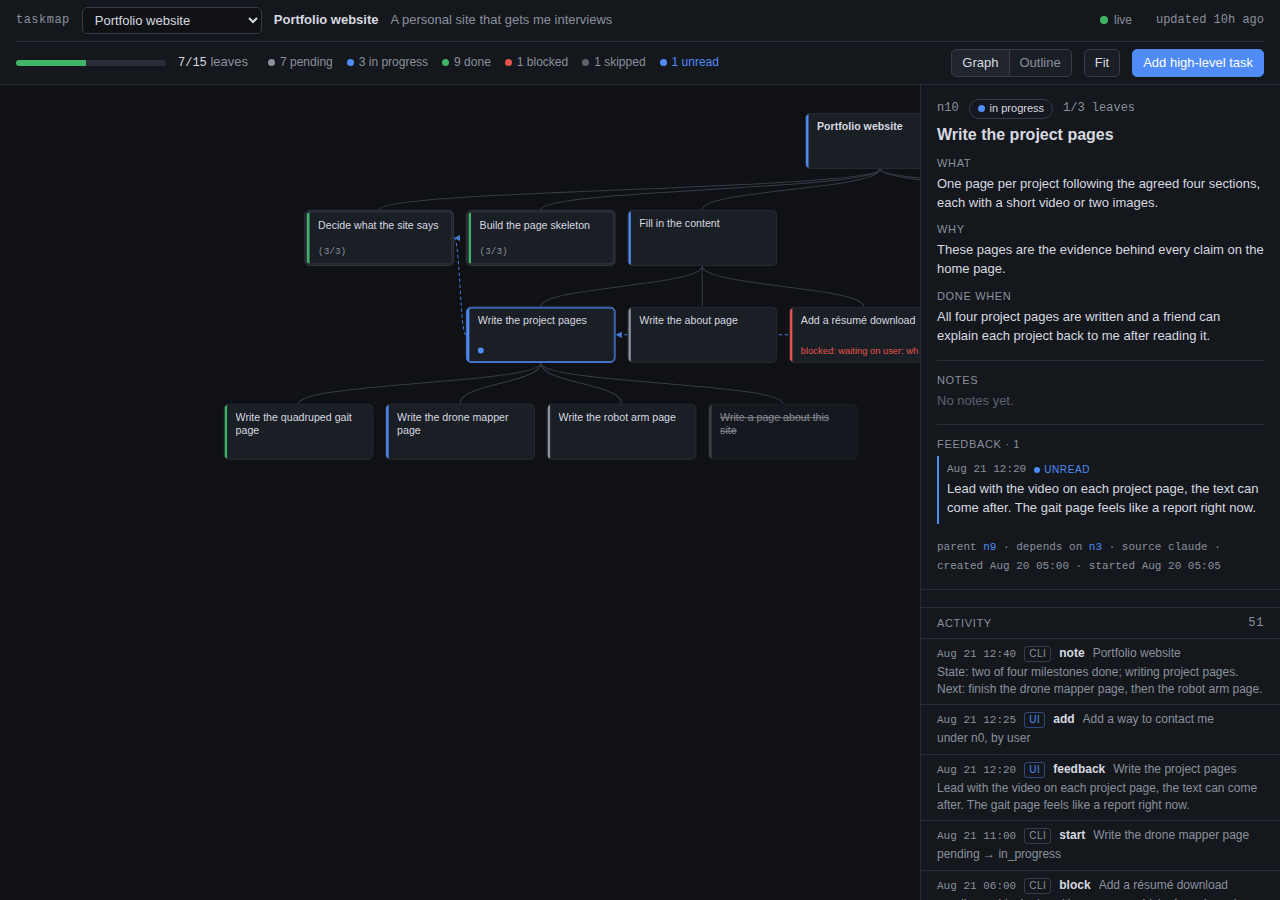
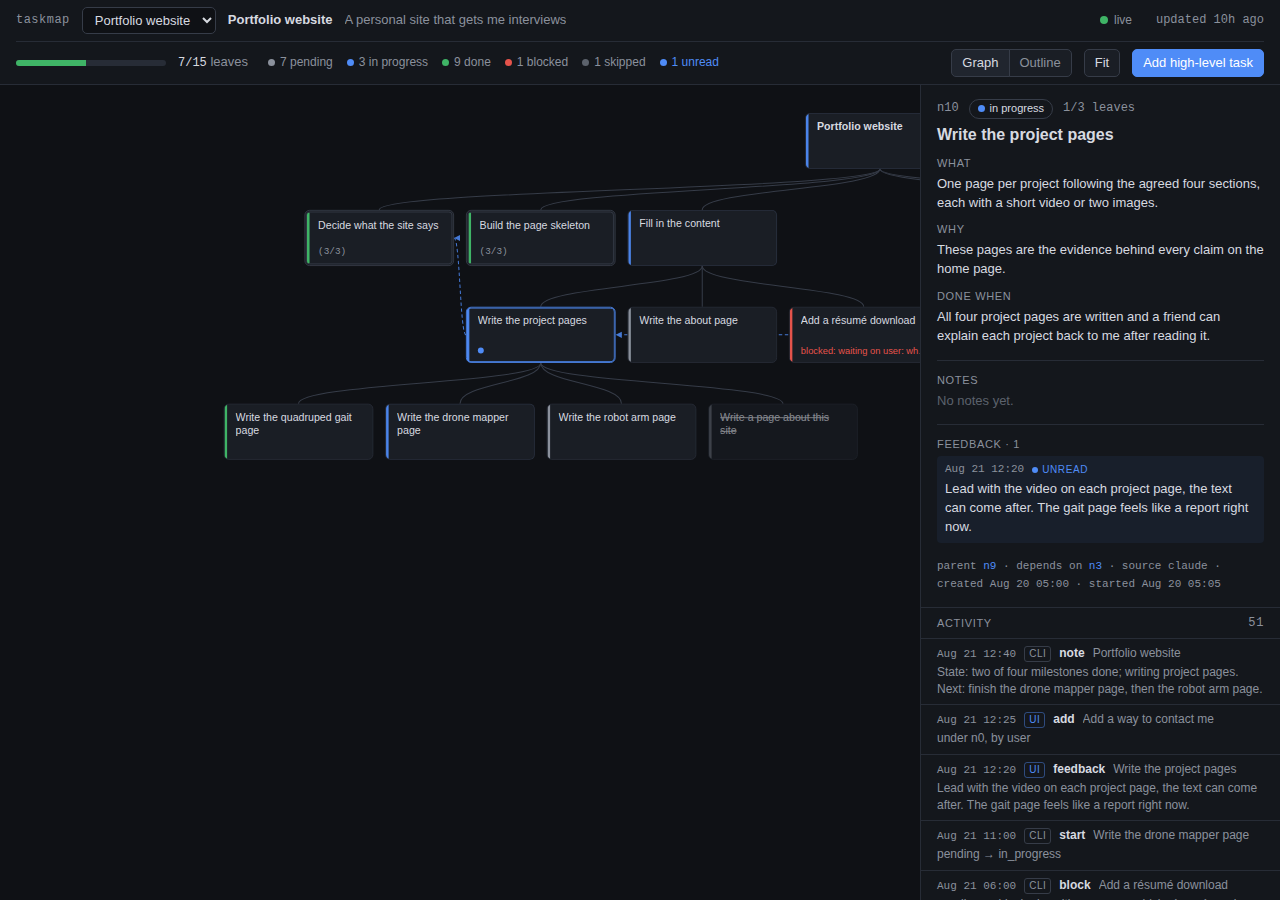
ui: progress bar via transform, quieter reason box and unread entries

Changed region(s): [[0.7188, 0.4978, 0.9688, 0.6533], [0.1562, 0.0, 0.4688, 0.0311]]

diff --git a/ui/style.css b/ui/style.css
@@ -97,7 +97,7 @@ input::placeholder, textarea::placeholder { color: var(--dim); }
 .live.off .dot { background: var(--red); }
 #updated { white-space: nowrap; min-width: 120px; text-align: right; }
 .progress { width: 150px; height: 6px; border-radius: 3px; background: var(--border); overflow: hidden; }
-#progress-bar { height: 100%; width: 0; background: var(--green); transition: width 0.3s ease; }
+#progress-bar { height: 100%; width: 100%; background: var(--green); transform: scaleX(0); transform-origin: left center; transition: transform 0.3s ease; }
 .plabel { color: var(--muted); white-space: nowrap; }
 .plabel .mono { color: var(--text); }
 .counts { display: inline-flex; gap: 14px; margin-left: 8px; }
@@ -214,8 +214,8 @@ foreignObject.node { overflow: visible; }
 .pill.st-blocked i { background: var(--red); }
 .pill.st-skipped i { background: var(--skip); }
 .p-title { font-size: 16px; line-height: 1.3; font-weight: 600; margin: 0 0 10px; overflow-wrap: anywhere; }
-.p-reason { font-size: 12.5px; padding: 6px 10px; border: 1px solid var(--border); border-left: 3px solid var(--red); border-radius: 4px; margin-bottom: 12px; color: var(--text); }
-.p-reason.st-skipped { border-left-color: var(--skip); color: var(--muted); }
+.p-reason { font-size: 12.5px; padding: 6px 10px; border: 1px solid rgba(229, 83, 75, 0.4); border-radius: 4px; margin-bottom: 12px; color: var(--text); }
+.p-reason.st-skipped { border-color: var(--border); color: var(--muted); }
 .kv { margin-bottom: 10px; }
 .kv .v { white-space: pre-wrap; overflow-wrap: anywhere; }
 .kv .v.empty, .p-sec .empty { color: var(--dim); }
@@ -226,7 +226,7 @@ foreignObject.node { overflow: visible; }
 .timeline .ts { color: var(--muted); font-size: 11px; }
 .timeline .t { white-space: pre-wrap; overflow-wrap: anywhere; }
 .timeline li.sys .t { color: var(--muted); font-style: italic; }
-.timeline li.unread { border-left: 2px solid var(--accent); padding-left: 8px; }
+.timeline li.unread { background: rgba(79, 140, 247, 0.07); padding-left: 8px; padding-right: 8px; border-radius: 4px; }
 .timeline .ts-row { display: flex; align-items: center; gap: 8px; }
 .unread-tag { display: inline-flex; align-items: center; gap: 4px; font-size: 10px; text-transform: uppercase; letter-spacing: 0.06em; color: var(--accent); }
 .unread-tag i { width: 6px; height: 6px; border-radius: 50%; background: var(--accent); }

diff --git a/ui/app.js b/ui/app.js
@@ -299,7 +299,7 @@ function renderHeader() {
   $('#project-goal').title = m.goal || '';
   document.title = `${m.name || state.pid} · taskmap`;
   const p = progressOf(rootId());
-  $('#progress-bar').style.width = `${p.total ? (p.done / p.total) * 100 : 0}%`;
+  $('#progress-bar').style.transform = `scaleX(${p.total ? p.done / p.total : 0})`;
   $('#progress-label').textContent = `${p.done}/${p.total}`;
   const c = statusCounts();
   const unread = unreadCount();
